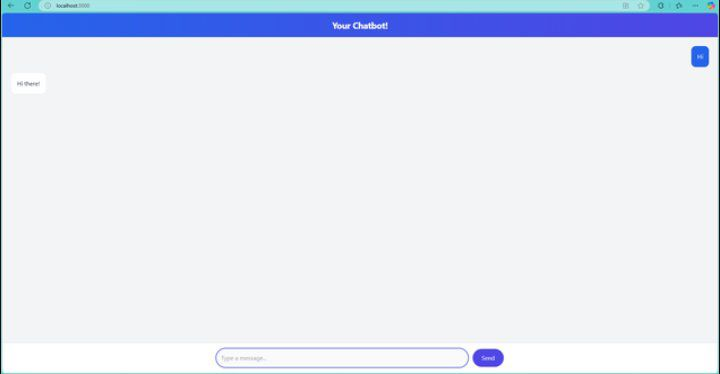
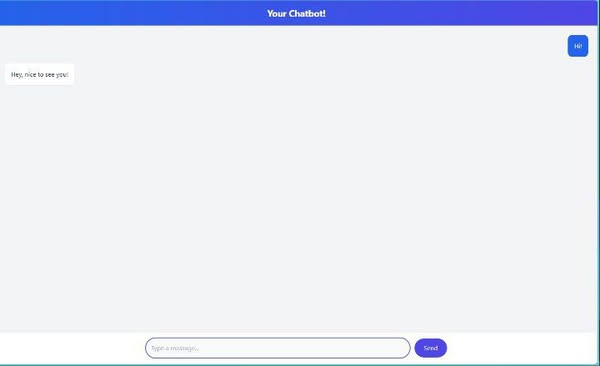
Updated index.html and replaced project3 image

Changed region(s): [[0.0, 0.0, 1.0, 1.0]]

diff --git a/index.html b/index.html
@@ -5,7 +5,7 @@
     <meta name="viewport" content="width=device-width, initial-scale=1.0">
     <title>My Portfolio</title>
     <link rel="stylesheet" href="static/css/style.css">
-    <link rel="stylesheet" href="https://cdnjs.cloudflare.com/ajax/libs/font-awesome/5.15.4/css/all.min.css">
+    <link rel="stylesheet" href="https://cdnjs.cloudflare.com/ajax/libs/font-awesome/6.0.0-beta3/css/all.min.css">
 </head>
 <body>
     <!-- Navbar -->
@@ -61,13 +61,29 @@
     <section id="about" class="about">
         <h2>About Me</h2>
         <div class="about-box about-description">
-            <p>Hi! I'm Rico Villamin, an enthusiastic web developer currently honing my craft at Mabini Colleges Daet. With 4 months of hands-on experience, I thrive on creating dynamic, user-friendly web applications. My specialties include HTML, CSS, Java, JavaScript, and React, where I blend creativity and code to bring ideas to life.</p>
+            <p>
+                Hi! I'm Rico Villamin, an enthusiastic web developer currently honing my craft at
+                <i class="fas fa-school"></i> Mabini Colleges Daet. With 4 months of hands-on experience, I thrive on creating dynamic, user-friendly web applications. My specialties include 
+                <i class="fab fa-html5"></i> HTML, 
+                <i class="fab fa-css3-alt"></i> CSS, 
+                <i class="fas fa-coffee"></i> Java, 
+                <i class="fab fa-js"></i> JavaScript, and 
+                <i class="fab fa-react"></i> React, where I blend creativity and code to bring ideas to life.
+            </p>
         </div>
         <div class="about-box about-skills">
             <h3>Skills</h3>
-            <p>React, HTML, CSS, Javascript, Java, Python, SQL</p>
+            <p>
+                <i class="fab fa-react"></i> React, 
+                <i class="fab fa-html5"></i> HTML, 
+                <i class="fab fa-css3-alt"></i> CSS, 
+                <i class="fab fa-js"></i> JavaScript, 
+                <i class="fas fa-coffee"></i> Java, 
+                <i class="fab fa-python"></i> Python, 
+                <i class="fas fa-database"></i> SQL
+            </p>
         </div>
-    </section>
+    </section>    
 
     <!-- Certificates -->
     <section id="certificates" class="certificates">
@@ -120,6 +136,15 @@
                 <div class="project-buttons">
                     <a href="https://github.com/Secretive-Plotterrr/Chatbot" target="_blank" class="view-btn" rel="noopener">View</a>
                     <a href="https://my-chatbot-dusky.vercel.app/" target="_blank" class="demo-btn" rel="noopener">Live Demo</a>
+                </div>
+            </div>
+            <div class="project-card">
+                <img src="static/images/project4.png" alt="Project 2" class="project-image" onclick="enlargeImage(this)">
+                <h3>Project 2</h3>
+                <p>Chatbot</p>
+                <div class="project-buttons">
+                    <a href="https://github.com/Secretive-Plotterrr/Chess-App" target="_blank" class="view-btn" rel="noopener">View</a>
+                    <a href="https://chess-app-delta-eight.vercel.app" target="_blank" class="demo-btn" rel="noopener">Live Demo</a>
                 </div>
             </div>
         </div>
